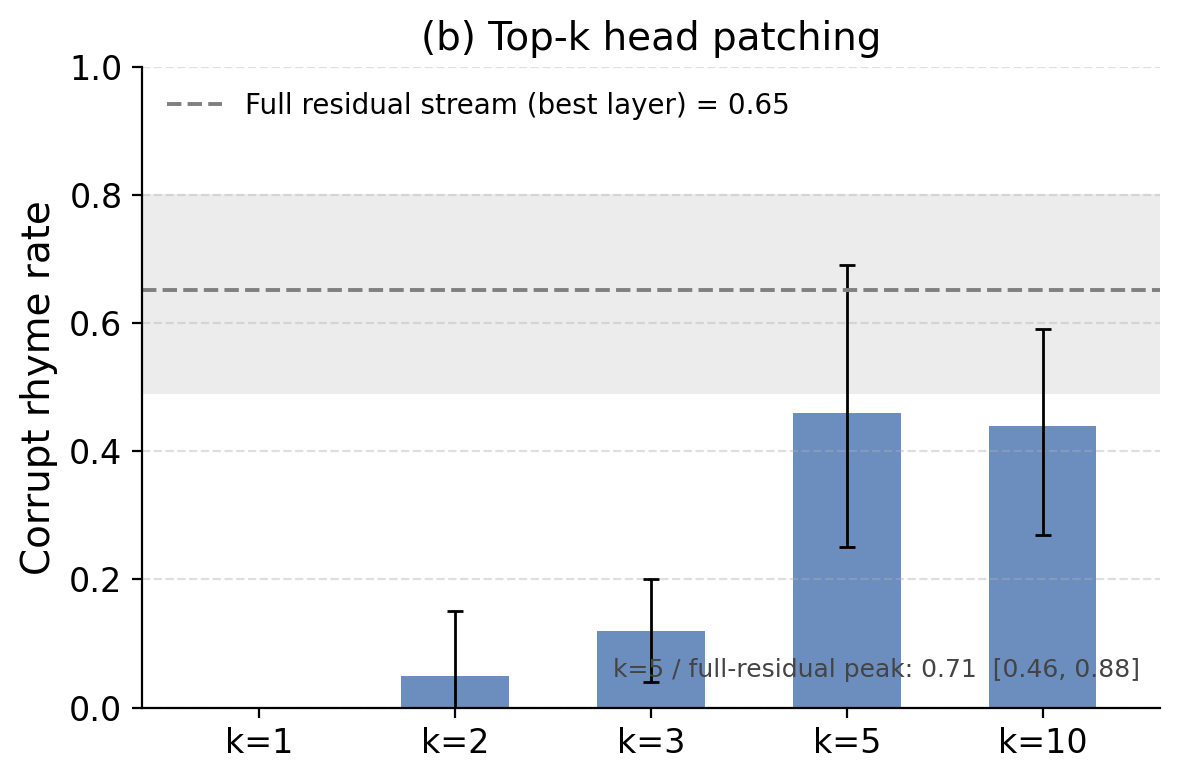
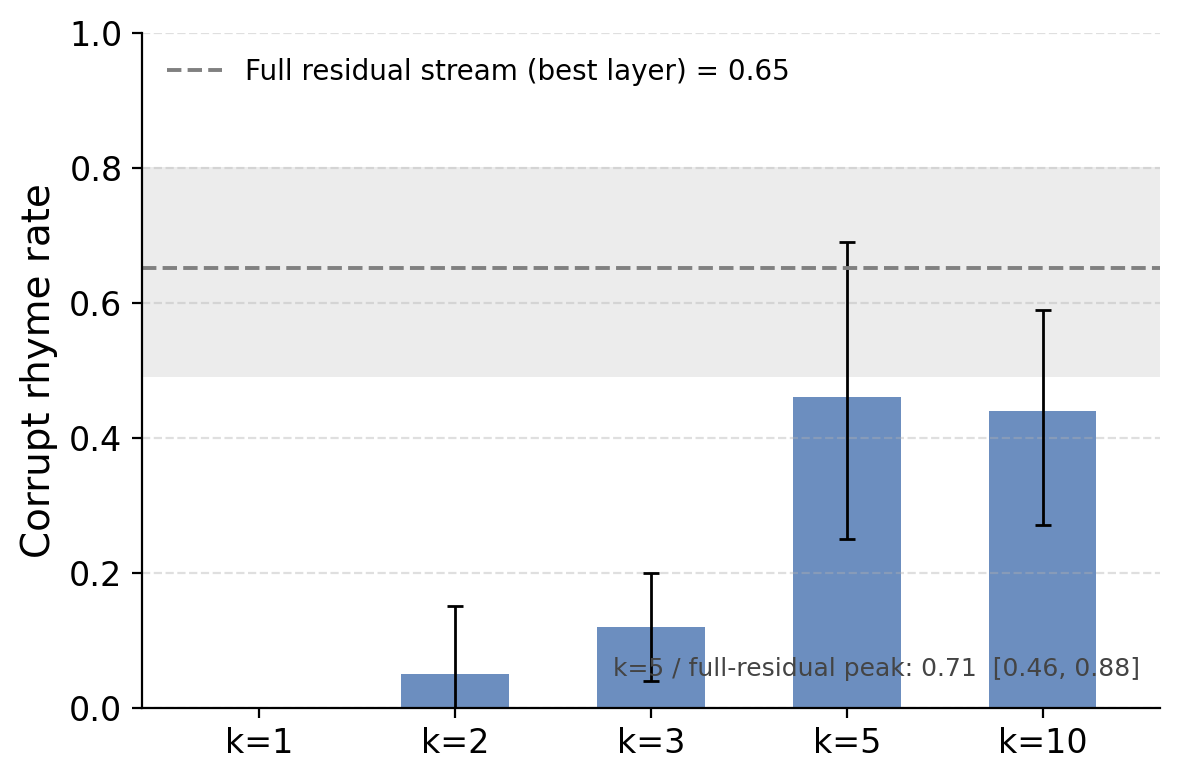
changes

diff --git a/activation-patching/plot_topk_head_panel_a_updated.py b/activation-patching/plot_topk_head_panel_a_updated.py
@@ -1,0 +1,77 @@
+"""
+Standalone panel (a) for Fig. 7: heatmap of attention weight from the newline
+token (i=0) to the last word token (i=-2), per (layer, head), in Gemma-3-27B
+layers 27-45. Red stars mark the top-5 heads by attention weight (the same
+heads patched in panel (b)).
+
+Output:
+  icml2026/media/results-patching/topk_head_attn_panel_a-updated.png
+
+Data source:
+  activation-patching/results/gemma3_27b_attention_patterns/summary.json
+  (19 layers x 32 heads, averaged across 5 prompt pairs, clean prompts)
+"""
+
+import json
+import os
+import numpy as np
+import matplotlib.pyplot as plt
+
+ROOT = os.path.dirname(os.path.abspath(__file__))
+SUMMARY = os.path.join(
+    ROOT, "results", "gemma3_27b_attention_patterns", "summary.json"
+)
+OUT = os.path.join(
+    ROOT, "..", "icml2026", "media", "results-patching",
+    "topk_head_attn_panel_a-updated.png",
+)
+
+
+def main():
+    with open(SUMMARY) as f:
+        d = json.load(f)
+    layers = d["layers"]
+    n_heads = d["n_heads"]
+
+    # shape (n_layers, n_heads); we want (heads on y, layers on x) → transpose
+    mat = np.array(d["attn_nl_to_rhyme_clean"]).T   # (n_heads, n_layers)
+
+    # top-5 heads by attention weight
+    flat = mat.flatten()
+    top5_flat = np.argsort(flat)[-5:][::-1]
+    top5 = [(int(i // mat.shape[1]), int(i % mat.shape[1])) for i in top5_flat]
+    print("top-5 (head, layer-idx, layer, weight):")
+    for h, lidx in top5:
+        print(f"  head={h:2d}  layer={layers[lidx]:2d}  weight={mat[h, lidx]:.3f}")
+
+    fig, ax = plt.subplots(figsize=(6.5, 4.5))
+    im = ax.imshow(mat, aspect="auto", cmap="Blues", origin="lower",
+                   vmin=0, vmax=1.0)
+
+    star_x = [lidx for (_, lidx) in top5]
+    star_y = [h    for (h, _) in top5]
+    ax.scatter(star_x, star_y, marker="*", s=180,
+               facecolor="#cc6677", edgecolor="black", linewidth=0.8,
+               label="Top-5", zorder=5)
+
+    ax.set_xticks(range(0, len(layers), 3))
+    ax.set_xticklabels([str(layers[i]) for i in range(0, len(layers), 3)],
+                       fontsize=10)
+    ax.set_yticks(range(0, n_heads, 8))
+    ax.set_yticklabels([str(i) for i in range(0, n_heads, 8)], fontsize=10)
+    ax.set_xlabel("Layer", fontsize=12)
+    ax.set_ylabel("Attention head", fontsize=12)
+
+    cbar = plt.colorbar(im, ax=ax, fraction=0.04, pad=0.02)
+    cbar.ax.tick_params(labelsize=9)
+
+    ax.legend(loc="upper right", frameon=False, fontsize=10,
+              handletextpad=0.2, borderaxespad=0.4)
+
+    plt.tight_layout()
+    plt.savefig(OUT, dpi=200, bbox_inches="tight")
+    print(f"\nSaved {OUT}")
+
+
+if __name__ == "__main__":
+    main()

diff --git a/icml2026/main.tex b/icml2026/main.tex
@@ -10,7 +10,8 @@
 
 % For blind submission:
 \usepackage{icml2026}
-% For camera-ready: \usepackage[accepted]{icml2026}
+% For camera-ready: 
+% \usepackage[accepted]{icml2026}
 
 \usepackage{amsmath}
 \usepackage{amsfonts}
@@ -37,13 +38,14 @@
   \icmltitle{Where's the Plan? Locating Latent Planning in Language Models with Lightweight Mechanistic Interventions}
 
   \begin{icmlauthorlist}
-    \icmlauthor{Author 1}{stanford}
-    \icmlauthor{Author 2}{stanford}
+    \icmlauthor{Nicole Ma}{equal,stanford}
+    \icmlauthor{Nick Rui}{equal,stanford}
   \end{icmlauthorlist}
 
-  \icmlaffiliation{stanford}{Stanford University, Stanford, CA, USA}
+  \icmlaffiliation{stanford}{Stanford University}
+  \icmlaffiliation{equal}{Equal contribution. Authors listed by increasing height.}
 
-  \icmlcorrespondingauthor{Author 1}{[email redacted]}
+  \icmlcorrespondingauthor{authors.}{\{manicole, nickrui\}@stanford.edu}
 
   \icmlkeywords{mechanistic interpretability, latent planning, language models, activation patching, probing}
 
@@ -53,7 +55,7 @@
 \printAffiliationsAndNotice{}
 
 \begin{abstract}
-Prior work establishes that language models exhibit latent planning, but \textit{where and how} do planning mechanisms form in the network? We introduce the notion of \textit{planning site formation} and investigate it across Qwen3, Gemma-3, and Llama-3 model families at more than ten scales using linear probing and activation patching on rhyming couplet generation. Probing reveals that planning-compatible representations emerge at the newline token with scale across all three families, yet their strength and layer profile vary substantially across architectures. Activation patching reveals a sharp dissociation: only Gemma-3-27B forms a causally active planning site at the newline, via a representational handoff in which causal influence migrates from the last word token to the newline mid-network. We further localize this handoff to a sparse set of five attention heads that jointly account for $0.71$ [95\% CI 0.46, 0.88] of the full patching effect. All other models, including all Qwen3 sizes up to 32B and all Llama-3 sizes up to 70B, condition on the last word token throughout generation despite exhibiting strong probe signal (Table~\ref{tab:patch-all-layers}: every non-Gemma-27B model has all-layers newline patching $\leq 9\%$ with 95\% CI upper bounds $\leq 16\%$), showing that planning-compatible representations do not imply causal planning behavior. Our activation patching approach requires no transcoder training and far less data than steering vector approaches, making it a scalable framework for studying latent planning across architectures. All headline rates are reported with 95\% confidence intervals (cluster bootstrap over prompt pairs for patching, Wilson intervals for proportions); see Section~\ref{sec:stats} for details.
+We study \textit{planning site formation} in language models---\textit{where} internal representations of structurally-constrained future tokens form during the forward pass, and whether they causally drive generation. Using rhyming-couplet completion as a clean test of forward-looking constraint, we apply two lightweight methods (linear probing and activation patching) across Qwen3, Gemma-3, and Llama-3 at more than ten scales. Probing shows that future-rhyme information is linearly decodable at the line boundary, with signal that strengthens with scale in all three families. Activation patching reveals a sharp dissociation: only Gemma-3-27B causally relies on this encoding, exhibiting a \textit{handoff} in which the causal driver migrates from the rhyme word to the line boundary around layer 30. Every other model we test conditions on the rhyme word throughout generation, with near-zero causal effect at the line boundary despite strong probe signal. We localize the Gemma-3-27B handoff to a sparse circuit of five attention heads that jointly recover ${\sim}71\%$ of the full causal effect, showing that planning, when it occurs, is implemented by a structured and identifiable mechanism rather than diffuse computation.
 \end{abstract}
 
 
@@ -74,15 +76,15 @@ Probing reveals that planning-compatible representations emerge at the newline t
 \label{sec:2}
 In this paper, we study rhyming couplet generation as an example of latent planning.
 A rhyming couplet is a two-line poem where the last word of the first line, denoted $r_1$, rhymes with the last word of the second line, denoted $r_2$.
-We task language models to complete rhyming couplets, (i.e., given context containing $r_1$, generate a completion where $r_2$ rhymes with $r_1$). For example, given the prompt \texttt{"A rhyming couplet:\textbackslash nShe felt a sudden sense of fright,\textbackslash n"}, the model should produce a completion such as \texttt{"and hoped that dawn would end the night.\textbackslash n"}, where $r_1 = \texttt{fright}$ and $r_2 = \texttt{night}$.
+We task language models to complete rhyming couplets (i.e., given context containing $r_1$, generate a completion where $r_2$ rhymes with $r_1$). For example, given the prompt \texttt{"A rhyming couplet:\textbackslash nShe felt a sudden sense of fright,\textbackslash n"}, the model should produce a completion such as \texttt{"and hoped that dawn would end the night.\textbackslash n"}, where $r_1 = \texttt{fright}$ and $r_2 = \texttt{night}$.
 
 Consider an autoregressive transformer language model with $L$ layers and hidden dimension $d$.
 Let $\mathbf{h}_{\ell,i} \in \mathbb{R}^d$ denote the hidden state vector after the $\ell$-th transformer block at position $i$.
 We adopt a relative positioning scheme centered around the newline token $\verb|\n|$ ending the first line of the couplet.
-We refer to this token as being at position 0, with position $i$ referring to an offset of $i$ behind/ahead of the newline.
+We refer to this token as being at position 0, with position $i$ denoting the token $i$ steps before (negative) or after (positive) the newline.
 
 We say $(i, \ell)$ contains a \textit{planning-compatible representation} if the generated $r_2$ can be decoded from $\mathbf{h}_{\ell,i}$ via probing substantially better at position $i$ than at other positions.
-This signals information about the future token and/or rhyme scheme is disproportionally encoded at the location $(i, \ell)$ compared to other hidden states.
+This signals that information about the future token or rhyme scheme is disproportionately encoded at $(i, \ell)$ relative to other hidden states.
 As a stricter definition, we say $(i, \ell)$ is a \textit{causally active planning site} if replacing $\mathbf{h}_{\ell,i}$ during generation with the hidden state from a run targeting a different rhyme substantially redirects output toward that rhyme.
 This shows that rhyme information located at $(i, \ell)$ is causally used in generation.
 
@@ -92,11 +94,7 @@ This shows that rhyme information located at $(i, \ell)$ is causally used in gen
 To investigate planning-compatible representations, we train linear probes to predict future tokens from hidden states.
 Let $\mathcal V$ be the vocabulary (set of all tokens) and $\Delta \mathcal V$ the probability simplex over $\mathcal V$.
 Each linear probe is a parameterized function $f_{(W,b)}(\mathbf{h}): \mathbb{R}^d \to \Delta \mathcal V$ where $f_{(W,b)}(\mathbf{h}) = \text{softmax}(W\mathbf{h} + \mathbf{b})$.
-Probes are trained by minimizing cross-entropy loss. Probe parameters are optimized with AdamW~\citep{adamw} with learning rate $10^{-4}$, weight decay $10^{-3}$, batch size 32, for 10 epochs.
-
-\paragraph{Statistical reporting.}
-\label{sec:stats}
-We attach 95\% confidence intervals to every reported proportion. For probe accuracies and table cells, we use Wilson score intervals~\citep{wilson1927}. For the activation-patching figures, the unit of independence is the prompt pair (the same five word pairs are used across layers and positions); we report cluster bootstrap intervals (10{,}000 resamples of pairs with replacement). Where we compute a ratio across two experiments (e.g.\ k-head vs.\ full residual stream), we use a joint cluster bootstrap that resamples shared pair indices in numerator and denominator. Per-pair sample sizes are stated alongside each result.
+Probes are trained by minimizing cross-entropy loss. Probe parameters are optimized with AdamW~\citep{adamw} with learning rate $10^{-4}$, weight decay $10^{-3}$, batch size 32, for 10 epochs. We report Wilson 95\% confidence intervals~\citep{wilson1927} on every probe accuracy, computed from the size of the held-out evaluation set.
 
 \subsection{Probing general text as a negative control}
 \label{sec:probe-general}
@@ -182,17 +180,13 @@ If a model constructs a planning-compatible representation at the newline before
     \label{fig:poem-results}
 \end{figure*}
 
-First, we observe much higher accuracies probing to predict $r_2$ compared to general text.
-On average, the generated $r_2$ is 8 tokens ahead of the newline token (the last context token), and we observe much greater accuracy for the $i=0$ probes compared to the $k=8$ probes on general text.
-This suggests models selectively construct planning-compatible representations in response to the structural demands of rhyming couplet generation.
+First, probe accuracies for predicting $r_2$ are substantially higher than for general-text continuation. Although the generated $r_2$ is on average 8 tokens past the newline (the last context token), the $i=0$ couplet probe far outperforms the corresponding $k=8$ Pile probe. This suggests that models selectively construct planning-compatible representations in response to the structural demands of rhyming couplet generation.
 
-More significantly, we find evidence that these representations are concentrated in the last word and newline positions in certain layers (Figure~\ref{fig:poem-results}). This is demonstrated by the large differences in accuracy from the $i\leq0$ probes compared to the $i>0$ probes, which contradicts the pattern found while probing in general text that increasing look-ahead distance decreases probe accuracy.
+More importantly, the signal is concentrated at the last word and newline positions in specific layers (Figure~\ref{fig:poem-results}): the $i\leq0$ probes outperform the $i>0$ probes by a wide margin, in contrast to the monotonic decay with look-ahead distance seen on general text.
 
-Notably, probes trained on activations at the last word position all peak in accuracy early and decrease later, consistent with lexical identity of $r_1$ being encoded from the earliest layers.
+Probes at the last word peak early and decay later, consistent with the lexical identity of $r_1$ being encoded from the earliest layers. The newline probes are more striking: they also perform well, hinting at latent planning at this position. Whereas the $i>0$ probes follow a similar shape throughout, the $i\leq0$ probes trace a qualitatively different curve across layers---evidence that the newline and last word undergo specialized computations rather than passively accumulating context.
 
-However, it is nontrivial that probes trained at the newline position also do perform well, hinting at the possibility of latent planning occurring at the newline token. Notably, probes trained at both positions vastly differ in the shape of their accuracy curves between layers compared to probes at $i>0$, which seem to follow a similar shape throughout. This suggests that the newline and last word tokens undergo qualitatively different computations across layers, consistent with these positions playing a specialized role in encoding rhyme-relevant information rather than passively accumulating context like later positions.
-
-Replicating this experiment on smaller Qwen, Gemma, and Llama models reveals these planning-compatible representations at the newline token emerge with scale. For each model, we record the largest accuracy gap across layers between probes trained at the newline token and probes trained at the next token. We find that this accuracy gap increases with scale (Figure~\ref{fig:poem-scaling}). Within Qwen3 and Llama-3, the gap CIs of the smallest models (Qwen3 0.6B--8B; Llama-3 1B--8B) all overlap zero, while their largest model has a clearly nonzero gap (Qwen3-32B top-5 gap $0.24$ [0.16, 0.32]; Llama-3-70B $0.21$ [0.12, 0.29]). Gemma-3 shows a positive gap at every scale and the cleanest monotonic trend (1B $0.11$ [0.04, 0.19] $\to$ 27B $0.38$ [0.29, 0.47]). This pattern is consistent with planning-compatible representations being an emergent property of larger models.
+Replicating this experiment on smaller Qwen, Gemma, and Llama models reveals that planning-compatible representations at the newline emerge with scale. For each model we measure the largest accuracy gap across layers between probes at the newline and probes at the first generated position; this gap grows with scale (Figure~\ref{fig:poem-scaling}). Within Qwen3 and Llama-3, the gap CIs of the smaller models (Qwen3 0.6B--8B; Llama-3 1B--8B) all overlap zero, whereas the largest model in each family has a clearly nonzero gap. Gemma-3 shows a positive gap at every scale and the cleanest monotonic trend, rising from 0.11 at 1B to 0.38 at 27B. This pattern is consistent with planning-compatible representations being an emergent property of larger models.
 
 \begin{figure*}[t]
     \centering
@@ -216,7 +210,7 @@ Replicating this experiment on smaller Qwen, Gemma, and Llama models reveals the
 
 The probing results reveal substantial cross-model and cross-scale diversity in planning-compatible representations at both the last word and newline positions. However, several alternative explanations warrant consideration.
 
-First, the elevated newline probe accuracy could reflect passive attention accumulation rather than active planning: if models attend strongly from the newline to the rhyme word in the first line, the newline hidden state will encode rhyme-relevant information even without any downstream computation reading it out during generation. Also, rhyme accuracy as a metric is imperfect, as the CMU Pronouncing Dictionary does not capture all valid rhymes, potentially underestimating probe performance inconsistently across rhyme families. Additionally, though we prompted Claude to generate couplets with diverse subjects and rhyme schemes, the resulting dataset may still carry nontrivial distributional biases that could inflate probe accuracy in ways difficult to detect or control for.
+First, the elevated newline probe accuracy could reflect passive attention accumulation rather than active planning: if models attend strongly from the newline to the rhyme word, the newline hidden state will encode rhyme-relevant information without any downstream computation reading it out during generation. Second, rhyme accuracy is an imperfect metric because the CMU Pronouncing Dictionary does not cover every valid rhyme, potentially underestimating probe performance unevenly across rhyme families. Finally, although we prompted Claude for diverse subjects and rhyme schemes, the resulting dataset may carry nontrivial distributional biases that could inflate probe accuracy in ways difficult to detect.
 
 These considerations highlight two fundamental limitations of probing as a method. First, high probe accuracy establishes that rhyme-relevant information is linearly decodable at a position, but cannot establish that this information causally drives generation. Second, probe accuracy is sensitive to the distribution of the training data, meaning results could partially reflect dataset artifacts rather than genuine planning representations.
 
@@ -240,38 +234,50 @@ While probing reveals that future token information is encoded in hidden states,
     \centering
     \begin{subfigure}{0.32\linewidth}
         \centering
-        \includegraphics[width=\linewidth]{media/results-patching/patching_qwen3_32b-updated.png}
+        \includegraphics[width=\linewidth]{media/results-patching/patching_qwen3_32b.png}
         \caption{Qwen3-32B.}
         \label{fig:patch-qwen}
     \end{subfigure}
     \hfill
     \begin{subfigure}{0.32\linewidth}
         \centering
-        \includegraphics[width=\linewidth]{media/results-patching/patching_gemma3_27b-updated.png}
+        \includegraphics[width=\linewidth]{media/results-patching/patching_gemma3_27b.png}
         \caption{Gemma-3-27B.}
         \label{fig:patch-gemma}
     \end{subfigure}
     \hfill
     \begin{subfigure}{0.32\linewidth}
         \centering
-        \includegraphics[width=\linewidth]{media/results-patching/patching_llama_70b-updated.png}
+        \includegraphics[width=\linewidth]{media/results-patching/patching_llama_70b.png}
         \caption{Llama-3.1-70B.}
         \label{fig:patch-llama}
     \end{subfigure}
-    \caption{Per-layer activation patching at the last word token and newline ($i=0$) for the largest model in each family. Black error bars are cluster-bootstrap 95\% CIs over prompt pairs (4 pairs $\times\ N{=}20$ for Qwen3-32B and Gemma-3-27B; 5 pairs $\times\ N{=}20$ for Llama-3.1-70B). Full results for all model sizes are in Appendix~\ref{sec:additional-patching-details}.}
+    \caption{Per-layer activation patching at the last word token and newline ($i=0$) for the largest model in each family. Full results for all model sizes are in Appendix~\ref{sec:additional-patching-details}.}
     \label{fig:patch-results}
 \end{figure*}
 
-We apply activation patching at two positions: the last word token (position $i=-1$ in Qwen3 and Llama-3, $i=-2$ in Gemma-3 due to its tokenization of the line-ending comma; see Appendix~\ref{sec:model-config}) and the newline token ($i=0$), sweeping across all layers individually. For each layer, we draw $N=20$ stochastic samples per prompt pair; the main per-layer figures (Figure~\ref{fig:patch-results}) average over 4 prompt pairs ($N{=}80$) for Qwen3-32B and Gemma-3-27B and 5 prompt pairs ($N{=}100$) for Llama-3.1-70B. We additionally include the omitted \texttt{fright/fear} pair as a separate $N{=}100$ run for Gemma-3-27B (used in joint analyses below).
+We apply activation patching at two positions: the last word token (position $i=-1$ in Qwen3 and Llama-3, $i=-2$ in Gemma-3 due to its tokenization of the line-ending comma; see Appendix~\ref{sec:model-config}) and the newline token ($i=0$), sweeping across all layers individually. For each layer, we draw $N=20$ stochastic samples per prompt pair; the main per-layer figures (Figure~\ref{fig:patch-results}) average over 4 prompt pairs ($N{=}80$) for Qwen3-32B and Gemma-3-27B and 5 prompt pairs ($N{=}100$) for Llama-3.1-70B. We additionally include the omitted \texttt{fright/fear} pair as a separate $N{=}100$ run for Gemma-3-27B (used in joint analyses below). Because the same word pairs are reused across layers and positions, the prompt pair is the natural unit of independence; we report 95\% cluster bootstrap intervals (10{,}000 pair-level resamples) on every patching rate, and use a joint cluster bootstrap with shared pair indices when comparing two patching conditions on the same pairs.
 
-In Gemma-3-27B (Figure~\ref{fig:patch-gemma}), last-word patching is highly effective in early layers but drops sharply around layer 30, while newline patching rises simultaneously to a peak corrupt rhyme rate of $0.64$ [95\% CI 0.45, 0.82] at layer 33 (4 pairs); the 5-pair estimate including \texttt{fright/fear} is $0.65$ [0.49, 0.80]. This crossover, which we term the \textit{representational handoff}, is the mechanistic signature of \textit{planning site formation}: the causal locus migrates from the last word token to the newline, which becomes the primary read-out site for the phonological constraint. The wide CI reflects pair-to-pair variability (one of four pairs at L33 has rate $0.10$, the other three exceed $0.75$); the qualitative migration is consistent across pairs even though its magnitude varies. In contrast, Qwen3-32B (Figure~\ref{fig:patch-qwen}) and Llama-3.1-70B (Figure~\ref{fig:patch-llama}) show uniformly high last-word patching (peak $0.74$ [0.55, 0.93] and $0.86$ [0.74, 0.96], respectively) and near-zero newline patching (peak $0.04$ [0.00, 0.11] and $0.02$ [0.00, 0.06]), with non-overlapping CIs separating the two positions across every layer. These models condition on the last word token throughout generation. Per-layer results for all model sizes within each family are provided in Appendix~\ref{sec:additional-patching-details}.
+In Gemma-3-27B (Figure~\ref{fig:patch-gemma}), last-word patching is highly effective in early layers but drops sharply around layer 30, while newline patching rises simultaneously to a peak corrupt rhyme rate of 0.64 [95\% CI 0.45, 0.82] at layer 33. We term this crossover the \textit{representational handoff}: the causal locus migrates from the last word token to the newline, which becomes the primary read-out site for the phonological constraint. The wide CI reflects pair-to-pair variability---one pair sits at 0.10 at layer 33 while the others exceed 0.75---but the qualitative migration is consistent across pairs. By contrast, Qwen3-32B (Figure~\ref{fig:patch-qwen}) and Llama-3.1-70B (Figure~\ref{fig:patch-llama}) show uniformly high last-word patching and near-zero newline patching across every layer, with non-overlapping CIs separating the two positions. These models condition on the last word token throughout generation. Per-layer results for all model sizes are provided in Appendix~\ref{sec:additional-patching-details}.
 
 \subsection{Localizing the Handoff to a Sparse Set of Attention Heads}
 \label{sec:head-patching}
 
 \begin{figure*}[!t]
     \centering
-    \includegraphics[width=\linewidth]{media/results-patching/topk_head_patching-updated.png}
+    \begin{subfigure}{0.49\linewidth}
+        \centering
+        \includegraphics[width=\linewidth]{media/results-patching/topk_head_attn_panel_a-updated.png}
+        \subcaption{Attention weight, $i{=}0 \to i{=}{-}2$.}
+        \label{fig:topk-heads-a}
+    \end{subfigure}
+    \hfill
+    \begin{subfigure}{0.49\linewidth}
+        \centering
+        \includegraphics[width=\linewidth]{media/results-patching/topk_head_patching-updated.png}
+        \subcaption{Top-$k$ head patching at the newline.}
+        \label{fig:topk-heads-b}
+    \end{subfigure}
     \caption{Localizing the planning site handoff in Gemma-3-27B to a sparse set of attention heads. \textbf{(a)} Attention weight from the newline token ($i=0$) to the last word token ($i=-2$) across heads in layers 27--45. Red stars mark the top-5 heads by attention weight. \textbf{(b)} Corrupt rhyme rate when patching the top-$k$ highest-attending heads simultaneously at the newline (5 prompt pairs $\times\ N{=}20$). Black error bars are cluster-bootstrap 95\% CIs over pairs. The dashed line and shaded gray band show the full-residual-stream peak at the best single layer (5-pair joint estimate $0.65$ [0.49, 0.80]).}
     \label{fig:topk-heads}
 \end{figure*}
@@ -280,9 +286,9 @@ Having established that the planning site forms at the newline token in Gemma-3-
 
 Specifically, we extract the attention weight from the newline token ($i=0$) to the last word token ($i=-2$) for each head in layers 27--45 of both clean and corrupt forward passes, and rank heads by this weight. Figure~\ref{fig:topk-heads}a shows the resulting heatmap: attention to $i=-2$ is highly concentrated: three heads attend almost exclusively to the last word token from the newline, namely layer 30 head 4 (weight ${\approx}0.99$), layer 28 head 14 (${\approx}0.97$), and layer 28 head 15 (${\approx}0.95$). A second cluster of heads in layers 28--36 shows moderate attention weights (0.35--0.55).
 
-We then patch the top-$k$ heads by attention weight simultaneously, replacing their outputs at the newline position with those from the corrupt forward pass, and measure the resulting corrupt rhyme rate. Figure~\ref{fig:topk-heads}b shows that $k=1,2,3$ produce near-zero corrupt rhyme rates ($0.00$ [0.00, 0.00], $0.05$ [0.00, 0.15], $0.12$ [0.04, 0.20]), indicating that even the three highest-attending heads are individually and jointly insufficient to carry the full phonological signal. At $k=5$ the rate jumps to $0.46$ [0.25, 0.69], non-overlapping with $k=3$ and comparable to the full-residual-stream peak. The headline ratio (top-5 head patching divided by full-residual peak) computed via joint cluster bootstrap over the same five prompt pairs is $0.71$ [0.46, 0.88], confirming that this small subset of heads carries most --- but, with a wide CI, possibly not all --- of the patching effect attainable from the full residual stream. Adding further heads ($k=10$) does not improve the rate, which plateaus at $0.44$ [0.27, 0.59].
+We then patch the top-$k$ heads simultaneously, replacing their outputs at the newline with those from the corrupt forward pass, and measure the resulting corrupt rhyme rate. Figure~\ref{fig:topk-heads}b shows that $k=1,2,3$ all yield near-zero rates, so the three highest-attending heads are jointly insufficient to carry the full phonological signal. At $k=5$ the rate jumps to 0.46, non-overlapping with $k=3$ and comparable to the full-residual-stream peak. The ratio of top-5 head patching to the full-residual peak (joint cluster bootstrap over the same five prompt pairs) is 0.71 [0.46, 0.88], confirming that this small subset of heads carries most---though, given the width of the interval, possibly not all---of the effect attainable from the full residual stream. Adding further heads does not improve the rate, which plateaus at $k=10$.
 
-These results reveal a sparse but distributed implementation of the handoff: a set of five attention heads spanning layers 28--34 collectively account for the bulk of the rhyme information routed to the newline, while individual heads or smaller subsets are insufficient. The top five heads by attention weight are (layer 30, head 4), (layer 28, head 14), (layer 28, head 15), (layer 30, head 5), and (layer 28, head 29). We also verified that patching top-$k$ MLP layer outputs at the same position yields a corrupt rhyme rate of $0.00$ at every $k$ tested, with Wilson 95\% upper bound $\leq 0.04$ ($N{=}100$); the head-patching effect $0.46$ [0.25, 0.69] at $k=5$ is well above this MLP upper bound, confirming that the handoff is mediated by attention rather than feed-forward computation.
+These results reveal a sparse but distributed implementation of the handoff: five attention heads spanning layers 28--34 jointly account for the bulk of the rhyme information routed to the newline, while individual heads and smaller subsets are insufficient. The top five heads are (layer 30, head 4), (layer 28, head 14), (layer 28, head 15), (layer 30, head 5), and (layer 28, head 29). The analogous top-$k$ MLP patches at the same position yield a corrupt rhyme rate of zero at every $k$ tested (Wilson 95\% upper bound $\leq 0.04$, $N{=}100$), well below the head-patching effect at $k=5$, confirming that the handoff is mediated by attention rather than feed-forward computation.
 
 
 \section{Conclusion}
@@ -291,7 +297,7 @@ We introduced the notion of \textit{planning site formation} and investigated it
 
 The Qwen3 family provides the paper's sharpest methodological lesson. Probing reveals strong, scale-dependent planning-compatible representations at the newline across all Qwen3 sizes, yet activation patching shows near-zero causal effect at every scale. Planning-compatible representations and causally active planning sites are dissociable: probe signal is not sufficient evidence of a planning site, and activation patching is required to establish causal relevance.
 
-Beyond the layer-level analysis, we localize the handoff in Gemma-3-27B to a sparse set of five attention heads in layers 28--34, identified via attention weight ranking followed by simultaneous head patching. Patching these five heads at the newline recovers $0.71$ [95\% CI 0.46, 0.88] of the effect achievable by full residual-stream patching (joint cluster bootstrap over five prompt pairs); MLP patching at the same position produces a corrupt rhyme rate of $0.00$ with Wilson 95\% upper bound $\leq 0.04$, and single-head patching produces no measurable signal. The 95\% CI on the head-patching ratio is wide because we have only five prompt pairs as the unit of independence, but its lower bound (${\geq}0.46$) is well above the MLP upper bound, so the qualitative claim --- attention-mediated handoff implemented by a sparse head set --- is robust. This circuit-level specificity, with a handful of attention heads implementing a representational handoff, suggests that planning site formation, when it occurs, is a structured computational phenomenon rather than a diffuse property of many model components.
+Beyond the layer-level analysis, we localize the handoff in Gemma-3-27B to a sparse circuit of five attention heads in layers 28--34, identified via attention weight ranking and simultaneous head patching. These five heads recover 0.71 [95\% CI 0.46, 0.88] of the effect achievable by full residual-stream patching, while MLP patching at the same position is at noise (Wilson 95\% upper bound $\leq 0.04$) and single-head patching produces no measurable signal. The CI on the head-patching ratio is wide because the unit of independence is the prompt pair and we have only five, but its lower bound is well above the MLP upper bound, so the qualitative claim is robust. This circuit-level specificity suggests that planning site formation, when it occurs, is a structured computational phenomenon rather than a diffuse property of many model components.
 
 Our activation patching approach requires no transcoder training and far less data than steering vector approaches, making it scalable to large models across many architectures. The results, however, also surface important open questions and limitations that future work should address.
 
@@ -392,7 +398,7 @@ For probing experiments, we also evaluated on top-1 accuracy. Note these are sim
 
 To verify that the observed corrupt rhyme rates reflect the specific encoding of the corrupt rhyme word rather than a generic effect of perturbing the residual stream, we run two control conditions. The \textit{zero-vector} baseline replaces the patched hidden state with an all-zeros vector. The \textit{donor-prompt} baseline replaces it with a hidden state cached from the same token position in a semantically unrelated sentence (``The weather outside is warm and sunny today, and the birds are singing.'').
 
-Figure~\ref{fig:patching-baselines} shows results for Qwen3-32B (at $i=-1$) and Gemma-3-27B (at $i=-2$), averaged over all prompt pairs. Both control conditions produce corrupt rhyme rates near zero across all layers, while true activation patching reaches a peak of $0.96$ for Gemma-3-27B and $0.90$ for Qwen3-32B (single fright/fear prompt with $N{=}100$). Quantifying ``near zero'' via Wilson 95\% upper bounds across all layers (pooled $N\approx 80$ per layer per condition): Qwen3-32B zero-vector $\leq 0.17$ and donor-prompt $\leq 0.14$; Gemma-3-27B zero-vector $\leq 0.05$ and donor-prompt $\leq 0.07$. In every case the upper-CI of the baseline is well below the true patching peak, supporting the claim that the effect is specific to the corrupt rhyme word's identity.
+Figure~\ref{fig:patching-baselines} shows results for Qwen3-32B (at $i=-1$) and Gemma-3-27B (at $i=-2$), averaged over all prompt pairs. Both control conditions produce corrupt rhyme rates near zero across all layers, while true activation patching reaches a peak of 0.96 for Gemma-3-27B and 0.90 for Qwen3-32B (single fright/fear prompt with $N{=}100$). Across all layers and both control conditions, the Wilson 95\% upper bound is at most 0.17, well below the true patching peak. This supports the claim that the patching effect is specific to the corrupt rhyme word's identity rather than a generic perturbation artifact.
 
 \begin{figure}[H]
     \centering

diff --git a/activation-patching/plot_topk_head_patching_updated.py b/activation-patching/plot_topk_head_patching_updated.py
@@ -140,7 +140,6 @@ ax.set_xticks(x)
 ax.set_xticklabels([f"k={k}" for k in k_values], fontsize=12)
 ax.set_ylim(0, 1.0)
 ax.set_ylabel("Corrupt rhyme rate", fontsize=14)
-ax.set_title("(b) Top-k head patching", fontsize=14)
 ax.tick_params(axis="y", labelsize=12)
 ax.legend(loc="upper left", frameon=False, fontsize=10)
 ax.grid(axis="y", linestyle="--", alpha=0.4)